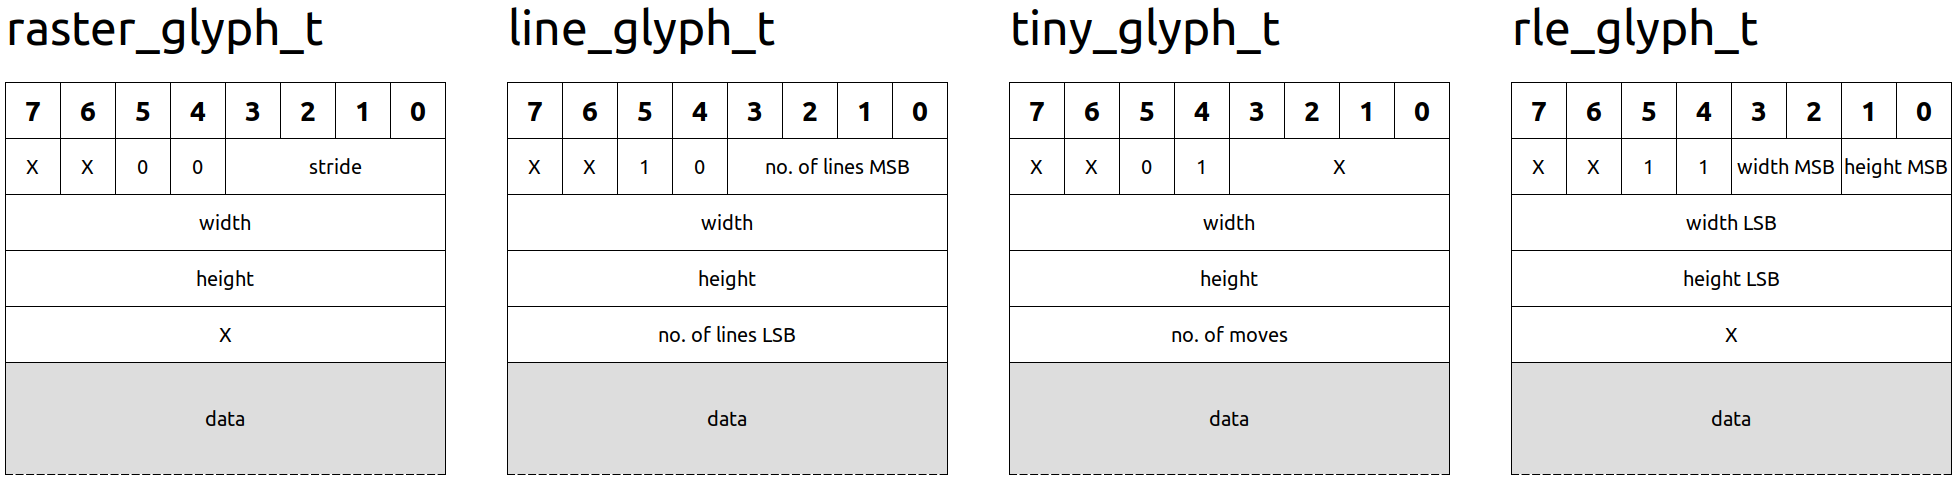
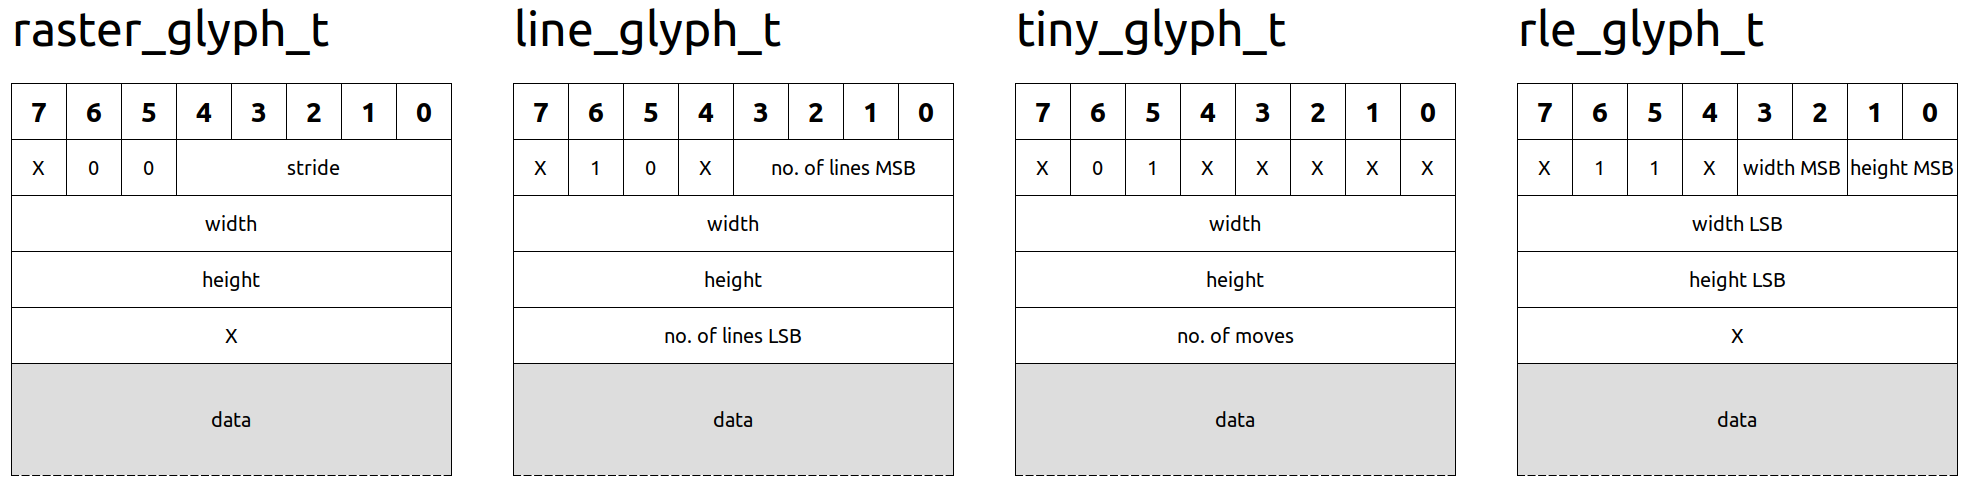
draw glyph works.

diff --git a/src/draw.c b/src/draw.c
@@ -13,6 +13,7 @@
 #include <rect.h>
 #include <native.h>
 #include <clip.h>
+#include <glyph.h>
 
 void gpx_draw_pixel(gpx_t *g, coord x, coord y) {
     /* are we inside clip area? */
@@ -88,4 +89,44 @@ void gpx_draw_rect(gpx_t *g, rect_t *rect) {
     gpx_draw_line(g,rect->x0, rect->y0, rect->x0, rect->y1);
     /* right */
     gpx_draw_line(g,rect->x1, rect->y0, rect->x1, rect->y1);
+}
+
+void gpx_draw_glyph(
+    gpx_t *g, 
+    coord x, 
+    coord y, 
+    glyph_t *glyph) {
+
+    /* If no intersect between glyph and clip area,
+       just return. */
+    rect_t grect={ x, y, 0, 0 };
+    rect_t intersect;
+
+    /* Use different logic for each glyph class. */
+    if (glyph->class == GYCLS_RASTER) {
+        /* Convert to raster glyph. */
+        raster_glyph_t* raster=(raster_glyph_t *)glyph;
+        grect.x1=x+raster->width;
+        grect.y1=y+raster->height;
+        /* If no intersection with the clip then do nothing */
+        if (gpx_rect_intersect(&grect,&(g->clip_area),&intersect)==NULL)
+            return;
+        /* Get the pointer to start of data. */
+        uint8_t *dptr=raster->data;   
+        /* Skip over clipped lines. */
+        uint16_t skip=( (intersect.y0 - y) * (raster->stride + 1) );
+        dptr += skip;
+        /* How many lines of glyph to draw? */
+        uint8_t nlines=intersect.y1 - intersect.y0 + 1;
+        y=intersect.y0;
+        while (nlines--) {
+            _stridexy(
+                intersect.x0, 
+                y++, 
+                dptr,
+                intersect.x0-x, 
+                intersect.x1 - x + 1);
+            dptr = dptr + raster->stride + 1; /* Next row. */
+        }
+    }
 }

diff --git a/src/glyph.h b/src/glyph.h
@@ -1,0 +1,41 @@
+/*
+ * glyph.h
+ *
+ * Glyph definitions.
+ *
+ * MIT License (see: LICENSE)
+ * copyright (c) 2021 tomaz stih
+ *
+ * 15.08.2021   tstih
+ *
+ */
+#ifndef __GLPYH_H__
+#define __GLPYH_H__
+
+#include <std.h>
+
+/* Known glyph classes */
+#define GYCLS_RASTER    0
+#define GYCLS_TINY      1
+#define GYCLS_LINES     2
+#define GYCLS_RLE       3
+
+/* Generic glyph header. */
+typedef struct glyph_s {
+    uint8_t reserved1:5;                /* low nibble */
+    uint8_t class:3;                    /* high nibble */
+    uint8_t reserved2[3];
+    uint8_t data[0];                    /* start of data */
+} glyph_t;
+
+/* Raster glyph header (a generic variant) */
+typedef struct raster_glyph_s {
+    uint8_t stride:5;                   /* stride-1 (1-16) */
+    uint8_t class:3;                    /* high nibble */
+    uint8_t width;                      /* width-1 (1-256) */
+    uint8_t height;                     /* height-1 (1-256) */
+    uint8_t reserved;                   /* not used */
+    uint8_t data[0];                    /* start of data */
+} raster_glyph_t;
+
+#endif /* __GLYPH_H__ */

diff --git a/include/gpx.h b/include/gpx.h
@@ -156,9 +156,27 @@ extern void gpx_fill_rect(gpx_t *g, rect_t *rect);
 
 /* ----- glyphs ------------------------------------------------------------ */
 
+/* Known glyph classes */
+#define GYCLS_RASTER    0
+#define GYCLS_TINY      1
+#define GYCLS_LINES     2
+#define GYCLS_RLE       3
+
 typedef struct glyph_s {
-    int dummy;
+    uint8_t reserved1:5;                /* low nibble */
+    uint8_t class:3;                    /* high nibble */
+    uint8_t reserved2[3];
+    uint8_t data[0];                    /* start of data */
 } glyph_t;
+
+typedef struct raster_glyph_s {
+    uint8_t stride:5;                   /* stride-1 (1-16) */
+    uint8_t class:3;                    /* high nibble */
+    uint8_t width;                      /* width-1 (1-256) */
+    uint8_t height;                     /* height-1 (1-256) */
+    uint8_t reserved;                   /* not used */
+    uint8_t data[0];                    /* start of data */
+} raster_glyph_t;
 
 /* -draw glyph */
 extern void gpx_draw_glyph(gpx_t *g, coord x, coord y, glyph_t *glyph);

diff --git a/src/native/partner/gpxcore.c b/src/native/partner/gpxcore.c
@@ -91,3 +91,7 @@ void gpx_set_blit(gpx_t *g, uint8_t blit) {
         pop     ix                      ; restore ix
     __endasm;
 }
+
+void gpx_set_clip_area(gpx_t *g, rect_t *clip_area) {
+    _memcpy(&(g->clip_area),clip_area,sizeof(rect_t));
+}

diff --git a/README.md b/README.md
@@ -214,18 +214,18 @@ the glyph. Each glyph type has its own optimal drawing function.
 
 ### Glyph classes
 
-Each glyph has a 4 byte glyph header. First nibble tells the glyph class.
-At present lower 2 bits are used for the class with upper two bits 
-reserved for future use.
+Each glyph has a 4 byte glyph header. First three bits tell the glyph class.
+At present only 2 bits are used for the class, and bit 0 is reserved for
+possible future extensions.
 
 Following glyph classes are supported.
 
 | Name      | Class | Description                                |
 |-----------|-------|--------------------------------------------|
-| Raster    | XX00  | Encoded as standard 1bpp raster            |
-| Tiny      | XX01  | Encoded as Partners' relative movements    |
-| Lines     | XX10  | Encoded as lines (scanlines or outline)    |
-| RLE       | XX11  | Encoded as RLE compressed graphics         |
+| Raster    |  X00  | Encoded as standard 1bpp raster            |
+| Tiny      |  X01  | Encoded as Partners' relative movements    |
+| Lines     |  X10  | Encoded as lines (scanlines or outline)    |
+| RLE       |  X11  | Encoded as RLE compressed graphics         |
 
 The rest of the 4 byte structure depends on glyph class.
 
